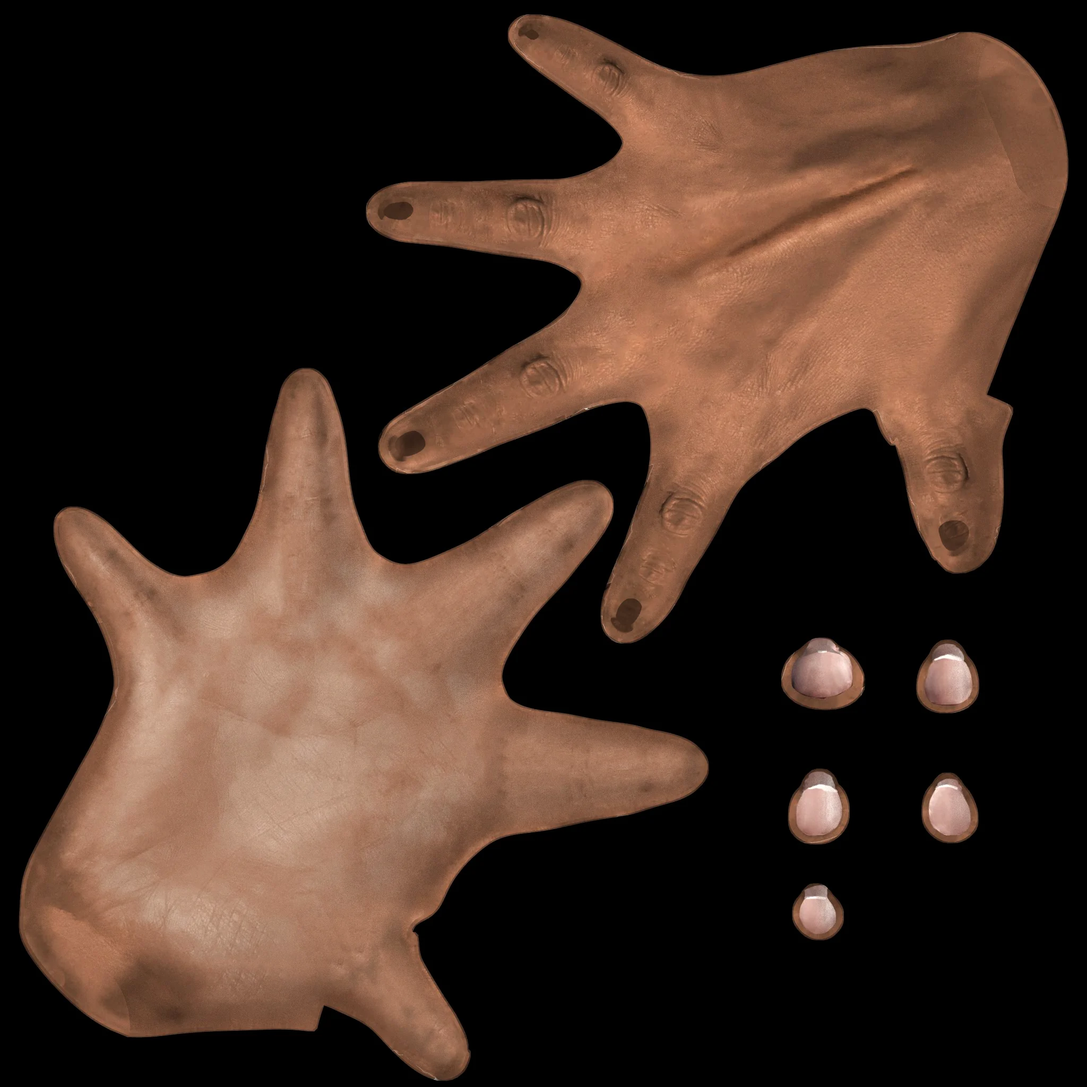
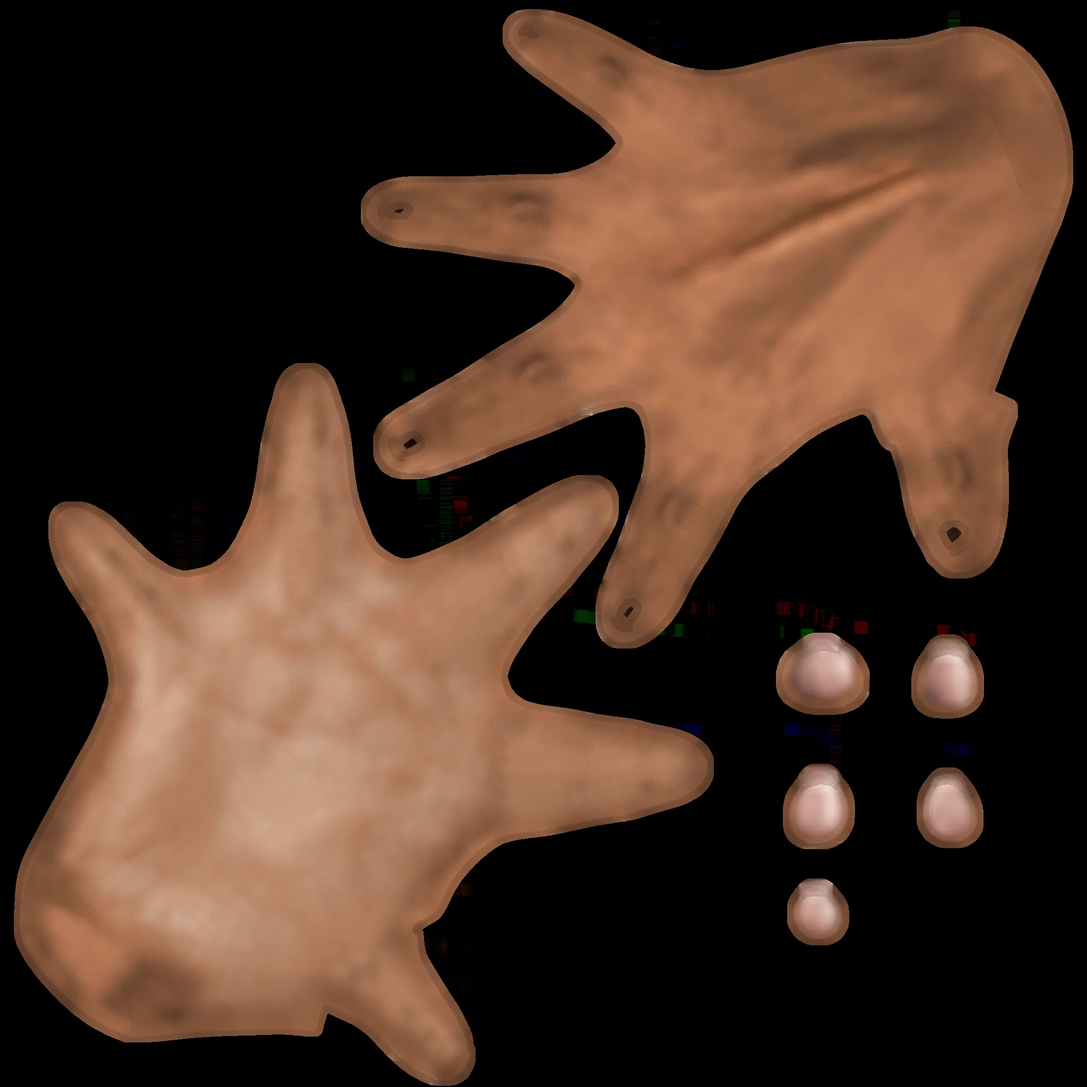
Hands: skin the forearm, soften the thumb crease, airbrush Studio
The Realistic forearm samples a pore tile cut from the hand maps on the same physical skin, so the tube reads as an arm. The thumb's middle joint stays shallow and a little of its sculpted kink is opened, while the nail joint stays gentle. Studio is a softer, warmer bake with the pores blurred and a warm rim.

diff --git a/src/hands/Hands.tsx b/src/hands/Hands.tsx
@@ -63,7 +63,7 @@ export const posesFor = (f: HandFit | null | undefined): [HandPose, string][] =>
 export const poseOk = (f: HandFit | null | undefined, p: HandPose) => p === 'off' || posesFor(f).some(([k]) => k === p)
 
 import { HAND_LOOK0, nailGeometry, nailMaterial, type HandLook, type NailFit } from './nails'
-import { ELENA_URLS, prepareSkinMaps, realisticArmMaterial, realisticHandMaterial } from './realisticSkin'
+import { ARM_URLS, ELENA_URLS, prepareArmMaps, prepareSkinMaps, realisticArmMaterial, realisticHandMaterial } from './realisticSkin'
 import { STUDIO_URL, prepareStudioMap, studioHandMaterial } from './studioSkin'
 const URL_R = '/hands/right.glb', URL_L = '/hands/left.glb'
 const ELENA_R = '/hands/elena/right.glb', ELENA_L = '/hands/elena/left.glb'
@@ -275,7 +275,7 @@ function plans(pose: HandPose, f: HandFit, ges: Gesture = GESTURE_DEFAULT, nail 
         { curl: [0, 46, 34, 18], spread: -5, tip: v3(-hw - 0.01, -hh * 0.2, ht * 0.1) },
         { curl: [0, 54, 38, 20], spread: -9, tip: v3(-hw * 0.1, -hh - 0.04, ht * 0.05) },
       ],
-      thumb: { oppose: 10, abduct: 10, curl: [6, 14, 6], tip: v3(hw - 0.05, hh * 0.16, ht + 0.008) }, ...(import.meta.env.DEV ? g : {}) }]
+      thumb: { oppose: 12, abduct: 8, curl: [4, 8, 4], tip: v3(hw - 0.16, hh * 0.08, ht + 0.045) }, ...(import.meta.env.DEV ? g : {}) }]
     return [{ ...grip, knuckle: v3(hw + 0.08, -hh * 0.3, -ht - 0.12), F: v3(-0.25, 0.9, -0.38), N: v3(-0.8, 0.05, 0.55), seat: 0.006,
       fingers: [hold(hh * 0.05, 3), hold(-hh * 0.15, 0), hold(-hh * 0.35, -3), hold(-hh * 0.55, -6)],
       thumb: { oppose: 0, abduct: 0, curl: [0, 0, 0], tip: v3(hw + 0.05, hh * 0.18, ht * 0.25) }, ...(import.meta.env.DEV ? g : {}) }]
@@ -740,15 +740,23 @@ function solve(rig: Rig, plan: HandPlan, fit: HandFit, size = 1, nail = 0) {
       // of a grip's curl is sent to the intermediate and distal joints and the base stays near rest.
       const [cmc, mcp, ip] = curls
       angles.length = 0
-      // Most of a grip still goes to the intermediate joint. The nail joint only takes a
-      // gentle bend: the distal skin is rigid, and a hard hook there folds the tip into the phone.
-      // Overflow from the base may move forward. Overflow at the nail stays there, capped,
-      // so it is not pushed back onto the thenar.
-      angles.push(cmc * 0.35, cmc * 0.2 + mcp * 0.12, mcp * 0.88 + ip * 0.22, ip * 0.42)
-      const cap = [0.32, 0.22, 0.95, 0.36]
+      // The nail joint only takes a gentle bend: the distal skin is rigid, and a hard hook
+      // there folds the tip into the phone. Overflow from the base may move forward.
+      // Overflow at the nail stays there, capped, so it is not pushed back onto the thenar.
+      // The intermediate joint used to take almost all of the curl, which folded the
+      // skin into a deep crease and made the thumb look short and thick. The bend is
+      // shared, that middle joint stays shallow, and a little of the sculpted kink is
+      // opened back up. The nail joint stays on a gentle bend so the tip is not hooked
+      // into the bezel.
+      angles.push(cmc * 0.4, cmc * 0.16 + mcp * 0.2, mcp * 0.28 + ip * 0.06, ip * 0.4)
+      const cap = [0.26, 0.16, 0.2, 0.32]
       for (let i = 0; i < 2; i++) if (angles[i] > cap[i]) { angles[i + 1] += angles[i] - cap[i]; angles[i] = cap[i] }
       if (angles[2] > cap[2]) angles[2] = cap[2]
       if (angles[3] > cap[3]) angles[3] = cap[3]
+      // The sculpt already kinks this joint. Extra flexion folds that kink into a slit
+      // and shortens the thumb, so the pose opens it a little and keeps only a soft crease.
+      angles[2] -= 0.22
+      if (angles[2] < -0.36) angles[2] = -0.36
     }
     const M = new THREE.Matrix4()
     hinge(M, P(names[0]), F0, deg(oppose) * -h); hinge(M, P(names[0]), N0, deg(abduct) * h)
@@ -853,9 +861,11 @@ function armFrame(rig: Rig, F: THREE.Vector3, N: THREE.Vector3) {
 
 // ---------- forearm ----------
 // The hand models stop at the wrist, which shows as a flat cut whenever the arm points at the camera. A tapered,
-// slightly flattened tube continues the wrist back along the arm, out of frame. Classic shares the skin material;
-// realistic uses a flat colour taken from the hand albedo, because the lathe unwrap is not the hand atlas. Tagged as hand, so the AI hands mask covers it too.
+// slightly flattened tube continues the wrist back along the arm, out of frame. Classic shares the skin material
+// and the plain lathe. Realistic clones that lathe, gives it a soft forearm belly, and tiles a pore patch cut
+// from the hand maps so the tube is the same skin as the wrist. Tagged as hand, so the AI hands mask covers it too.
 let armGeo: THREE.BufferGeometry | null = null
+let armSkinGeo: THREE.BufferGeometry | null = null
 /** Side-to-side widening of the forearm tube at distance y past the wrist joint. */
 function armWide(y: number) { return 1 + 0.36 * (1 - THREE.MathUtils.smoothstep(y, 0.1, 1.0)) }
 /** Front-to-back deepening likewise (the hand's wrist is about 21 mm half-depth, the tube's 16). */
@@ -880,6 +890,31 @@ function forearmGeometry() {
   armGeo.setAttribute('aArm', new THREE.BufferAttribute(aa, 1)); armGeo.setAttribute('aMass', new THREE.BufferAttribute(new Float32Array(ap.count).fill(0.85), 1))
   armGeo.setAttribute('aCut', new THREE.BufferAttribute(new Float32Array(ap.count), 1))
   return armGeo
+}
+/** Realistic forearm. Same silhouette at the wrist as the shared lathe, with a soft belly further down and UVs that repeat a skin tile. */
+function forearmSkinGeometry() {
+  if (armSkinGeo) return armSkinGeo
+  const g = forearmGeometry().clone()
+  const pos = g.getAttribute('position') as THREE.BufferAttribute
+  const ouv = g.getAttribute('uv') as THREE.BufferAttribute
+  for (let k = 0; k < pos.count; k++) {
+    const y = pos.getY(k)
+    // Flare at the wrist so the tube covers the hand's open rim, then a soft belly down the forearm.
+    const flare = 1 + 0.2 * (1 - THREE.MathUtils.smoothstep(y, 0.0, 0.42))
+    const t = THREE.MathUtils.clamp((y - 0.08) / 2.1, 0, 1)
+    const belly = (1 + 0.05 * Math.sin(Math.PI * t)) * flare
+    pos.setX(k, pos.getX(k) * belly)
+    pos.setZ(k, pos.getZ(k) * belly)
+    // Five repeats around the arm and about 4 cm along it. The last column's u is an integer, so the lathe seam tiles.
+    ouv.setXY(k, ouv.getX(k) * 5, y / 0.42)
+  }
+  pos.needsUpdate = true
+  ouv.needsUpdate = true
+  g.computeVertexNormals()
+  g.deleteAttribute('tangent')
+  try { g.computeTangents() } catch { /* normal-mapped skin needs tangents; the preview still shades without them */ }
+  armSkinGeo = g
+  return g
 }
 const _ax = new THREE.Vector3(), _ay = new THREE.Vector3(), _az = new THREE.Vector3(), _mb = new THREE.Matrix4()
 function placeArm(mesh: THREE.Mesh, rig: Rig, shift = 0) {
@@ -912,14 +947,16 @@ function Hands({ pose, tone, fit, gesture, sp, rot, idle, look }: { pose: HandPo
   const classicRight = useGLTF(URL_R), classicLeft = useGLTF(URL_L)
   const elenaRight = useGLTF(ELENA_R), elenaLeft = useGLTF(ELENA_L)
   const skinTex = useTexture(ELENA_URLS)
+  const armTex = useTexture(ARM_URLS)
   const studioTex = useTexture(STUDIO_URL)
   const { gl } = useThree()
   useLayoutEffect(() => {
     prepareSkinMaps(skinTex)
+    prepareArmMaps(armTex)
     prepareStudioMap(studioTex)
     const max = gl.capabilities.getMaxAnisotropy()
-    for (const t of [...skinTex, studioTex]) t.anisotropy = max
-  }, [skinTex, studioTex, gl])
+    for (const t of [...skinTex, ...armTex, studioTex]) t.anisotropy = max
+  }, [skinTex, armTex, studioTex, gl])
   const group = useRef<THREE.Group>(null)
   const spectral = tone === 'spectral'
   const spm = useMemo<SpectralMats | null>(() => spectral ? spectralMaterials(SPECTRAL_DEFAULTS) : null, [spectral])
@@ -941,7 +978,7 @@ function Hands({ pose, tone, fit, gesture, sp, rot, idle, look }: { pose: HandPo
     if (realistic) return realisticHandMaterial(toneRec, skinTex)
     return skinMaterial(tone)
   }, [tone, spm, realistic, studio, skinTex, studioTex, toneRec])
-  const armMat = useMemo(() => realistic ? realisticArmMaterial(toneRec) : null, [realistic, toneRec])
+  const armMat = useMemo(() => realistic ? realisticArmMaterial(toneRec, armTex) : null, [realistic, toneRec, armTex])
   useEffect(() => () => { if (!spm) mat.dispose() }, [mat, spm])
   useEffect(() => () => { armMat?.dispose() }, [armMat])
   // live uniforms: tint, transparency and the three effects
@@ -988,6 +1025,11 @@ function Hands({ pose, tone, fit, gesture, sp, rot, idle, look }: { pose: HandPo
   const solved = useRef<Record<string, string>>({})
   const lastRep = useRef('')
   const arms = useMemo(() => ({ right: new THREE.Mesh(forearmGeometry()), left: new THREE.Mesh(forearmGeometry()) }), [])
+  useLayoutEffect(() => {
+    const geo = realistic ? forearmSkinGeometry() : forearmGeometry()
+    arms.right.geometry = geo
+    arms.left.geometry = geo
+  }, [arms, realistic])
   // Arm off: the forearm is hidden and the hand itself fades out over the 19 mm its mesh runs past the wrist joint
   // (aArm, 0 at the joint, 0.2 at the open rim), so there is no overlap band and the open rim is fully clear. Photo and
   // Sketch (whose hands keep the skin material) take a copy of the skin with that fade; Spectral fades by uniform.
@@ -999,18 +1041,19 @@ function Hands({ pose, tone, fit, gesture, sp, rot, idle, look }: { pose: HandPo
   const realisticFade = mat.userData.fadeFrom as { value: number } | undefined
   const realisticMask = mat.userData.maskAmt as { value: number } | undefined
   // Studio has no forearm. Its bake fades the cuff into the background instead.
-  // Realistic, arm on: the textured cuff fades over its last centimetre into the forearm
-  // tube (aArm is 0 at the wrist and about 0.12 at the rim). The palm stays opaque.
-  // Arm off fades from the wrist, as before. Classic keeps its own cloned fade material.
+  // Realistic, arm on: the cuff stays opaque until its open rim, where it fades into
+  // the skinned forearm (aArm is 0 at the wrist and about 0.12 at the rim). The palm
+  // stays opaque. Arm off fades from the wrist, as before. Classic keeps its own cloned fade material.
   if (studio) {
     if (realisticFade) realisticFade.value = 0
     if (!mat.transparent) { mat.transparent = true; mat.depthWrite = true; mat.needsUpdate = true }
   } else if (realistic) {
-    // aArm is about 0.12 at the rim. Fade the cuff once the forearm tube, shifted up
-    // into the wrist and widened, is behind it. The palm (aArm <= 0) stays opaque.
+    // aArm is about 0.12 at the rim. Only that last few millimetres fade, where the
+    // flared tube is already behind the cuff. A longer fade drew the forearm through
+    // the wrist. Arm off still fades from the joint. The palm stays opaque.
     const realisticSpan = mat.userData.fadeSpan as { value: number } | undefined
-    if (realisticFade) realisticFade.value = armOff ? 0 : 0.02
-    if (realisticSpan) realisticSpan.value = armOff ? 0.11 : 0.09
+    if (realisticFade) realisticFade.value = armOff ? 0 : 0.09
+    if (realisticSpan) realisticSpan.value = armOff ? 0.11 : 0.03
     if (!mat.transparent) { mat.transparent = true; mat.depthWrite = true; mat.needsUpdate = true }
   } else {
     if (realisticFade) realisticFade.value = armOff ? 0 : 2
@@ -1046,7 +1089,7 @@ function Hands({ pose, tone, fit, gesture, sp, rot, idle, look }: { pose: HandPo
         for (let k = 1, flat = nailLen; nailsOn && k <= 4 && (r.root.userData.nailClear ?? 1) < need; k++) {
           flat += 0.3; pl = { ...mk(flat)[li], thumbFace: 0.08 * k }; solve(r, pl, fit, look.size, nailLen); const sc = score(); if (sc < best.s) best = { s: sc, pl } }
         if (best.pl !== pl) { pl = best.pl; solve(r, pl, fit, look.size, nailLen) }
-        solved.current[pl.side] = key; g.add(r.root); placeArm(arms[pl.side], r, realistic ? -0.1 : 0); const wide = realistic ? 1.32 : 1; arms[pl.side].scale.set(build * look.size * wide, look.size, build * look.size * wide); if (!armOff && !studio) g.add(arms[pl.side]); else arms[pl.side].removeFromParent()
+        solved.current[pl.side] = key; g.add(r.root); placeArm(arms[pl.side], r, realistic ? -0.06 : 0); const wide = realistic ? 1.16 : 1; arms[pl.side].scale.set(build * look.size * wide, look.size, build * look.size * wide); if (!armOff && !studio) g.add(arms[pl.side]); else arms[pl.side].removeFromParent()
         const touching = new Set<string>([...(pl.thumb.touch ? ['thumb'] : []), ...pl.fingers.flatMap((f, i) => f.touch ? [FINGERS[i]] : [])])
         m.capture(r.root, r.bones, r.rest, touching, arms[pl.side], animate)
       }

diff --git a/src/hands/realisticSkin.ts b/src/hands/realisticSkin.ts
@@ -13,8 +13,6 @@ export const ELENA_URLS: string[] = [
 
 /** SKIN_TONES.fair. The albedo already is a skin colour, so fair leaves it unchanged and the other swatches scale it. */
 const FAIR = new THREE.Color('#dfa98a')
-/** Average of the albedo's skin texels, for the forearm lathe, which does not share the hand unwrap. */
-const CUFF = new THREE.Color('#8d624f')
 
 export function toneGain(color: string) {
   const c = new THREE.Color(color)
@@ -166,10 +164,34 @@ export function realisticHandMaterial(tone: SkinTone, maps: THREE.Texture[]) {
   return mat
 }
 
-/** Forearm lathe. Flat colour taken from the hand albedo, same sheen and backlight, no pore tile. */
-export function realisticArmMaterial(tone: SkinTone) {
-  const mat = physical(tone, CUFF.clone().multiply(toneGain(tone.color)), { roughness: 0.92, specularIntensity: 0.1, sheen: 0.12 })
+/** A tiled patch of the hand atlas, so the forearm lathe is the same skin as the hand. */
+export const ARM_URLS: string[] = [
+  '/hands/elena/forearm-albedo.webp',
+  '/hands/elena/forearm-normal.webp',
+  '/hands/elena/forearm-roughness.webp',
+]
+
+export function prepareArmMaps(maps: THREE.Texture[]) {
+  const [albedo, normal, roughness] = maps
+  albedo.colorSpace = THREE.SRGBColorSpace
+  albedo.wrapS = albedo.wrapT = THREE.RepeatWrapping
+  for (const t of [normal, roughness]) {
+    t.colorSpace = THREE.NoColorSpace
+    t.wrapS = t.wrapT = THREE.RepeatWrapping
+  }
+  for (const t of maps) { t.flipY = false; t.needsUpdate = true }
+}
+
+/** Forearm lathe. Same physical skin as the hand, sampling a pore tile cut from the atlas. */
+export function realisticArmMaterial(tone: SkinTone, maps: THREE.Texture[]) {
+  const [albedo, normal, roughness] = maps
+  const mat = physical(tone, toneGain(tone.color), {
+    map: albedo,
+    normalMap: normal,
+    normalScale: new THREE.Vector2(0.32, 0.32),
+    roughnessMap: roughness,
+  })
   mat.onBeforeCompile = (shader) => compileSkin(shader as SkinShader, 'arm', {})
-  mat.customProgramCacheKey = () => 'om-elena-arm-1'
+  mat.customProgramCacheKey = () => 'om-elena-arm-2'
   return mat
 }

diff --git a/src/hands/studioSkin.ts b/src/hands/studioSkin.ts
@@ -6,7 +6,7 @@
 import * as THREE from 'three'
 import { toneGain, type SkinTone } from './realisticSkin'
 
-export const STUDIO_URL = '/hands/elena/studio.webp'
+export const STUDIO_URL = '/hands/elena/studio.webp?v=3'
 
 export function prepareStudioMap(map: THREE.Texture) {
   map.colorSpace = THREE.SRGBColorSpace
@@ -38,11 +38,13 @@ vStudioW = (modelMatrix * vec4(transformed, 1.0)).xyz;`,
       '#include <dithering_fragment>',
       `#include <dithering_fragment>
 float studioNdV = clamp(dot(normalize(vStudioN), normalize(cameraPosition - vStudioW)), 0.0, 1.0);
-gl_FragColor.rgb += vec3(1.0, 0.95, 0.91) * pow(1.0 - studioNdV, 2.6) * 0.06;
+float studioRim = pow(1.0 - studioNdV, 1.7);
+gl_FragColor.rgb += vec3(1.0, 0.55, 0.40) * studioRim * 0.22;
+gl_FragColor.rgb += vec3(1.0, 0.78, 0.68) * studioRim * studioRim * 0.06;
 gl_FragColor.a *= 1.0 - smoothstep(uFadeFrom, uFadeFrom + 0.1, vArm);
 if (gl_FragColor.a < 0.02) discard;`,
     )
   }
-  mat.customProgramCacheKey = () => 'om-elena-studio-1'
+  mat.customProgramCacheKey = () => 'om-elena-studio-2'
   return mat
 }

diff --git a/public/hands/elena/README.md b/public/hands/elena/README.md
@@ -13,7 +13,7 @@ The conversion, done in headless Blender 4 with `automatic_bone_orientation` lef
 1. Keep the deform bones only. Vertex groups are `pulse`, `hand`, and each finger's base / 01 / 02 / 03. The `*_Ctrl*` bones have no weights and are deleted.
 2. Unparent every deform bone so its rest matrix stays in armature space. Rename them to the WebXR generic-hand names the solver already uses (`wrist`, `index-finger-phalanx-proximal`, `thumb-metacarpal`, and so on). `pulse` becomes `forearm` and keeps the wrist cuff skinned. It is not a posed joint.
 3. Add a tip bone at each distal end (`index-finger-tip`, `thumb-tip`, …). The solver aims those joints. They carry no weights.
-4. The thumb has an extra middle phalanx (`thumb_02`, named `thumb-phalanx-intermediate`). The WebXR thumb has three curls and no middle joint. `poseThumb` in `Hands.tsx` shares those curls across the four Elena joints. The metacarpal and the short proximal bone stay near the sculpted rest (they are already bent, and more flexion there candy-wraps the thenar). The intermediate joint takes most of a grip. The nail joint is capped at a gentle bend: the distal skin is almost rigid, and a hard hook there folds the tip into the phone. `followThumbMid` only runs if that pose has not happened yet.
+4. The thumb has an extra middle phalanx (`thumb_02`, named `thumb-phalanx-intermediate`). The WebXR thumb has three curls and no middle joint. `poseThumb` in `Hands.tsx` shares those curls across the four Elena joints. The metacarpal and the short proximal bone stay near the sculpted rest (they are already bent, and more flexion there candy-wraps the thenar). The intermediate joint used to take almost all of a grip, which folded its sculpted kink into a deep crease. That bend is now shared, the middle joint is kept shallow, and a little of the sculpted kink is opened so the crease stays soft and the thumb keeps its length. The nail joint is still capped at a gentle bend: the distal skin is almost rigid, and a hard hook there folds the tip into the phone. `followThumbMid` only runs if that pose has not happened yet.
 5. Limit skin weights to four influences per vertex (the FBX uses up to seven; glTF skinning here is four).
 6. Scale about the wrist so the wrist-to-middle-fingertip length is 178 mm, the same as `public/hands/right.glb`. `HAND_SCALE` then makes Realistic and Classic the same size, and the contact radii still fit.
 7. Mirror on X for the left hand. Bone names stay the same. The solver's palm normal flips with the hand side.
@@ -29,14 +29,17 @@ Positive curl still closes toward the palm. That was checked by hinging the midd
 | `normal.webp` | `hand_No.png` | Tangent-space normal, OpenGL Y. Lossless WebP. |
 | `roughness.webp` | `hand_Ro.jpeg` | Linear roughness, lifted (`min(255, 48 + 0.88 * source)` for texels at or above 20) so the pores stay matte instead of satin. WebP quality 82. |
 | `specular.webp` | `hand_Sp.jpeg` | Kept for reference. The hand material does not sample it. |
-| `studio.webp` | Cycles bake of this mesh | Fully lit colour for the Studio style. See below. WebP quality 86. |
+| `studio.webp` | Cycles bake of this mesh | Airbrushed colour for the Studio style. See below. WebP quality 86. |
+| `forearm-albedo.webp` | A dorsal patch of `albedo.webp` | Seamless pore tile for the forearm lathe, recoloured to the wrist. WebP quality 86. |
+| `forearm-normal.webp` | The same patch of `normal.webp` | Pore-scale normal, with the broad surface curvature divided out. Lossless WebP. |
+| `forearm-roughness.webp` | The same patch of `roughness.webp` | Pore roughness, centred on that patch. WebP quality 84. |
 
-UVs are the glTF set, so the textures load with `flipY` off. The forearm is still the procedural lathe; it does not share this unwrap, and it uses the albedo's average skin colour instead of a second texture. With the arm on, the tube is widened and tucked up into the cuff, and the hand fades across that overlap (`aArm`), so the flat wrist cut does not leave a hard ring. Crease occlusion is not baked into the Realistic maps. The earlier procedural skin maps read as blotches, so they are not used.
+UVs are the glTF set, so the textures load with `flipY` off. The forearm is still the procedural lathe; it does not share this unwrap. It samples the forearm tiles with repeat wrapping, on the same physical skin as the hand (roughness, normal scale, sheen, wrapped diffuse). The realistic lathe flares over the open rim and then settles into a slight forearm belly. Only the last few millimetres of the cuff fade, so the palm stays opaque and the two surfaces meet as one arm. Crease occlusion is not baked into the Realistic maps. The earlier procedural skin maps read as blotches, so they are not used.
 
 `MeshPhysicalMaterial` (Realistic) samples colour, normal and roughness. Roughness is high, specular is low, clearcoat is off, and the normal map is scaled down, so the skin reads dry under the studio key. A wrapped diffuse lobe and a small warm backlight stay. Matte still clears specular, sheen and the environment reflection.
 
 ## Studio
 
-`studio.webp` is a lighting bake of this same mesh, so it is CC BY-SA 4.0 as well. Headless Blender 4 Cycles (CPU, no denoiser) lit the open hand with a large soft key, a gentler fill, a dim back light and a little subsurface, and baked the diffuse illumination without the albedo. That factor is multiplied by `hand_Co` in linear light, centred so a typical skin texel keeps the albedo's colour and saturation. Creases darker than their neighbourhood are deepened, and the broad highlights get a small warm lift. Nothing is clipped to white. One neutral pose is enough: the light is even, so a curled finger does not pick up a hard shadow from the open-hand bake.
+`studio.webp` is a lighting bake of this same mesh, so it is CC BY-SA 4.0 as well. Headless Blender 4 Cycles (CPU, no denoiser) lit the open hand with a large soft key, a gentler fill, a dim back light and a little subsurface, and baked the diffuse illumination without the albedo. That factor is compressed toward the middle so the wrap stays even and creases stay gentle. It is multiplied, in linear light, by a blurred copy of `hand_Co` (a little of the sharp albedo is mixed back, so pores are softened rather than erased). A warm lift keeps the midtone saturated. Nothing is clipped to white. One neutral pose is enough: the light is even, so a curled finger does not pick up a hard shadow from the open-hand bake.
 
-In the app, Studio is a `MeshBasicMaterial` (`src/hands/studioSkin.ts`). It does not read the scene lights, the HDRI, or the lighting controls. The skin-tone swatch still tints the bake. A short fresnel stands in for a soft rim. The wrist cuff fades out through the existing `aArm` attribute instead of meeting the forearm tube. Matte has nothing glossy to remove.
+In the app, Studio is a `MeshBasicMaterial` (`src/hands/studioSkin.ts`). It does not read the scene lights, the HDRI, or the lighting controls. The skin-tone swatch still tints the bake. A warm fresnel stands in for subsurface at the silhouette. The wrist cuff fades out through the existing `aArm` attribute instead of meeting the forearm tube. Matte has nothing glossy to remove. Realistic stays the default.

diff --git a/README.md b/README.md
@@ -48,9 +48,9 @@ Hand → Appearance → Hand style switches between **Realistic** (the default),
 
 Realistic skin is a `MeshPhysicalMaterial` (`src/hands/realisticSkin.ts`) on Elena FF's mesh, so the orbit camera and the lighting controls (intensity, direction, height, contact shadow, the studio HDRI) still shade the hand. The roughness map is lifted, specular is low, clearcoat is off and the normal map is softened, so the skin stays dry and matte with a little warmth. Matte, in Sketch, still strips sheen, specular and the environment reflection. A wrapped diffuse lobe and a small warm backlight stand in for subsurface scatter. The skin-tone swatches scale the albedo: Fair leaves the texture as painted, and the other swatches shift it.
 
-Studio (`src/hands/studioSkin.ts`) uses the same mesh with a Cycles bake of soft studio light (`public/hands/elena/studio.webp`). The material is unlit on purpose: scene lights, the HDRI and the lighting controls do not shade it. The wrist cuff fades into the background instead of growing a forearm. The skin-tone swatch still tints the bake.
+Studio (`src/hands/studioSkin.ts`) uses the same mesh with an airbrushed Cycles bake (`public/hands/elena/studio.webp`): pores are softened, the light is an even wrap, and a warm fresnel glows at the silhouette. The material is unlit on purpose: scene lights, the HDRI and the lighting controls do not shade it. The wrist cuff fades into the background instead of growing a forearm. The skin-tone swatch still tints the bake. Realistic stays the default.
 
-The mesh is "Rigged hand" by Elena FF, about 15.5k vertices and 29k triangles after triangulation. In Blender the deform bones were unparented onto a flat armature (OpenMock poses each joint in armature space), renamed to the WebXR generic-hand bone names, and scaled so the wrist-to-middle-fingertip length matches the classic asset (178 mm). Control bones were dropped; they carried no skin weights. The thumb's extra middle phalanx is posed on its own: most of a grip's curl goes to the intermediate joint, the nail joint stays at a gentle bend so the tip does not fold into the phone, and the short base bones stay near the sculpted rest so the knuckle does not collapse. The forearm tube overlaps the cuff and the hand fades across that join. Elena's fingers are thicker than the generic hand, so the contact spheres and the phone grips for that mesh are separate. Classic poses are unchanged. A left hand is the right hand mirrored on X, with the same bone names. See `public/hands/elena/README.md` for the conversion steps, the bake, and the CC BY-SA terms.
+The mesh is "Rigged hand" by Elena FF, about 15.5k vertices and 29k triangles after triangulation. In Blender the deform bones were unparented onto a flat armature (OpenMock poses each joint in armature space), renamed to the WebXR generic-hand bone names, and scaled so the wrist-to-middle-fingertip length matches the classic asset (178 mm). Control bones were dropped; they carried no skin weights. The thumb's extra middle phalanx is posed on its own: the curl is shared, the middle joint stays shallow (a little of its sculpted kink is opened so it does not fold into a slit), and the nail joint stays at a gentle bend so the tip does not fold into the phone. The short base bones stay near the sculpted rest so the knuckle does not collapse. The forearm is the same physical skin as the hand, tiled from a patch of these maps, flared over the cuff. Elena's fingers are thicker than the generic hand, so the contact spheres and the phone grips for that mesh are separate. Classic poses are unchanged. A left hand is the right hand mirrored on X, with the same bone names. See `public/hands/elena/README.md` for the conversion steps, the bake, and the CC BY-SA terms.
 
 The model's sculpted nails are the ones you see. Procedural nail plates stay on Classic only, so they are not stacked on top of the sculpt.
 
@@ -61,7 +61,8 @@ The model's sculpted nails are the ones you see. Procedural nail plates stay on 
 | `normal.webp` | The model's tangent-space normal map. |
 | `roughness.webp` | The model's roughness map, lifted so the skin stays matte. |
 | `specular.webp` | The model's specular map. Shipped for reference; the material does not sample it. |
-| `studio.webp` | Cycles bake of this mesh under soft studio light. CC BY-SA, because it is derived from the model. |
+| `studio.webp` | Airbrushed Cycles bake of this mesh. CC BY-SA, because it is derived from the model. |
+| `forearm-albedo.webp`, `forearm-normal.webp`, `forearm-roughness.webp` | Seamless skin tile for the forearm, cut from the hand maps. CC BY-SA. |
 
 ### Photoreal hands (ComfyUI)
 
